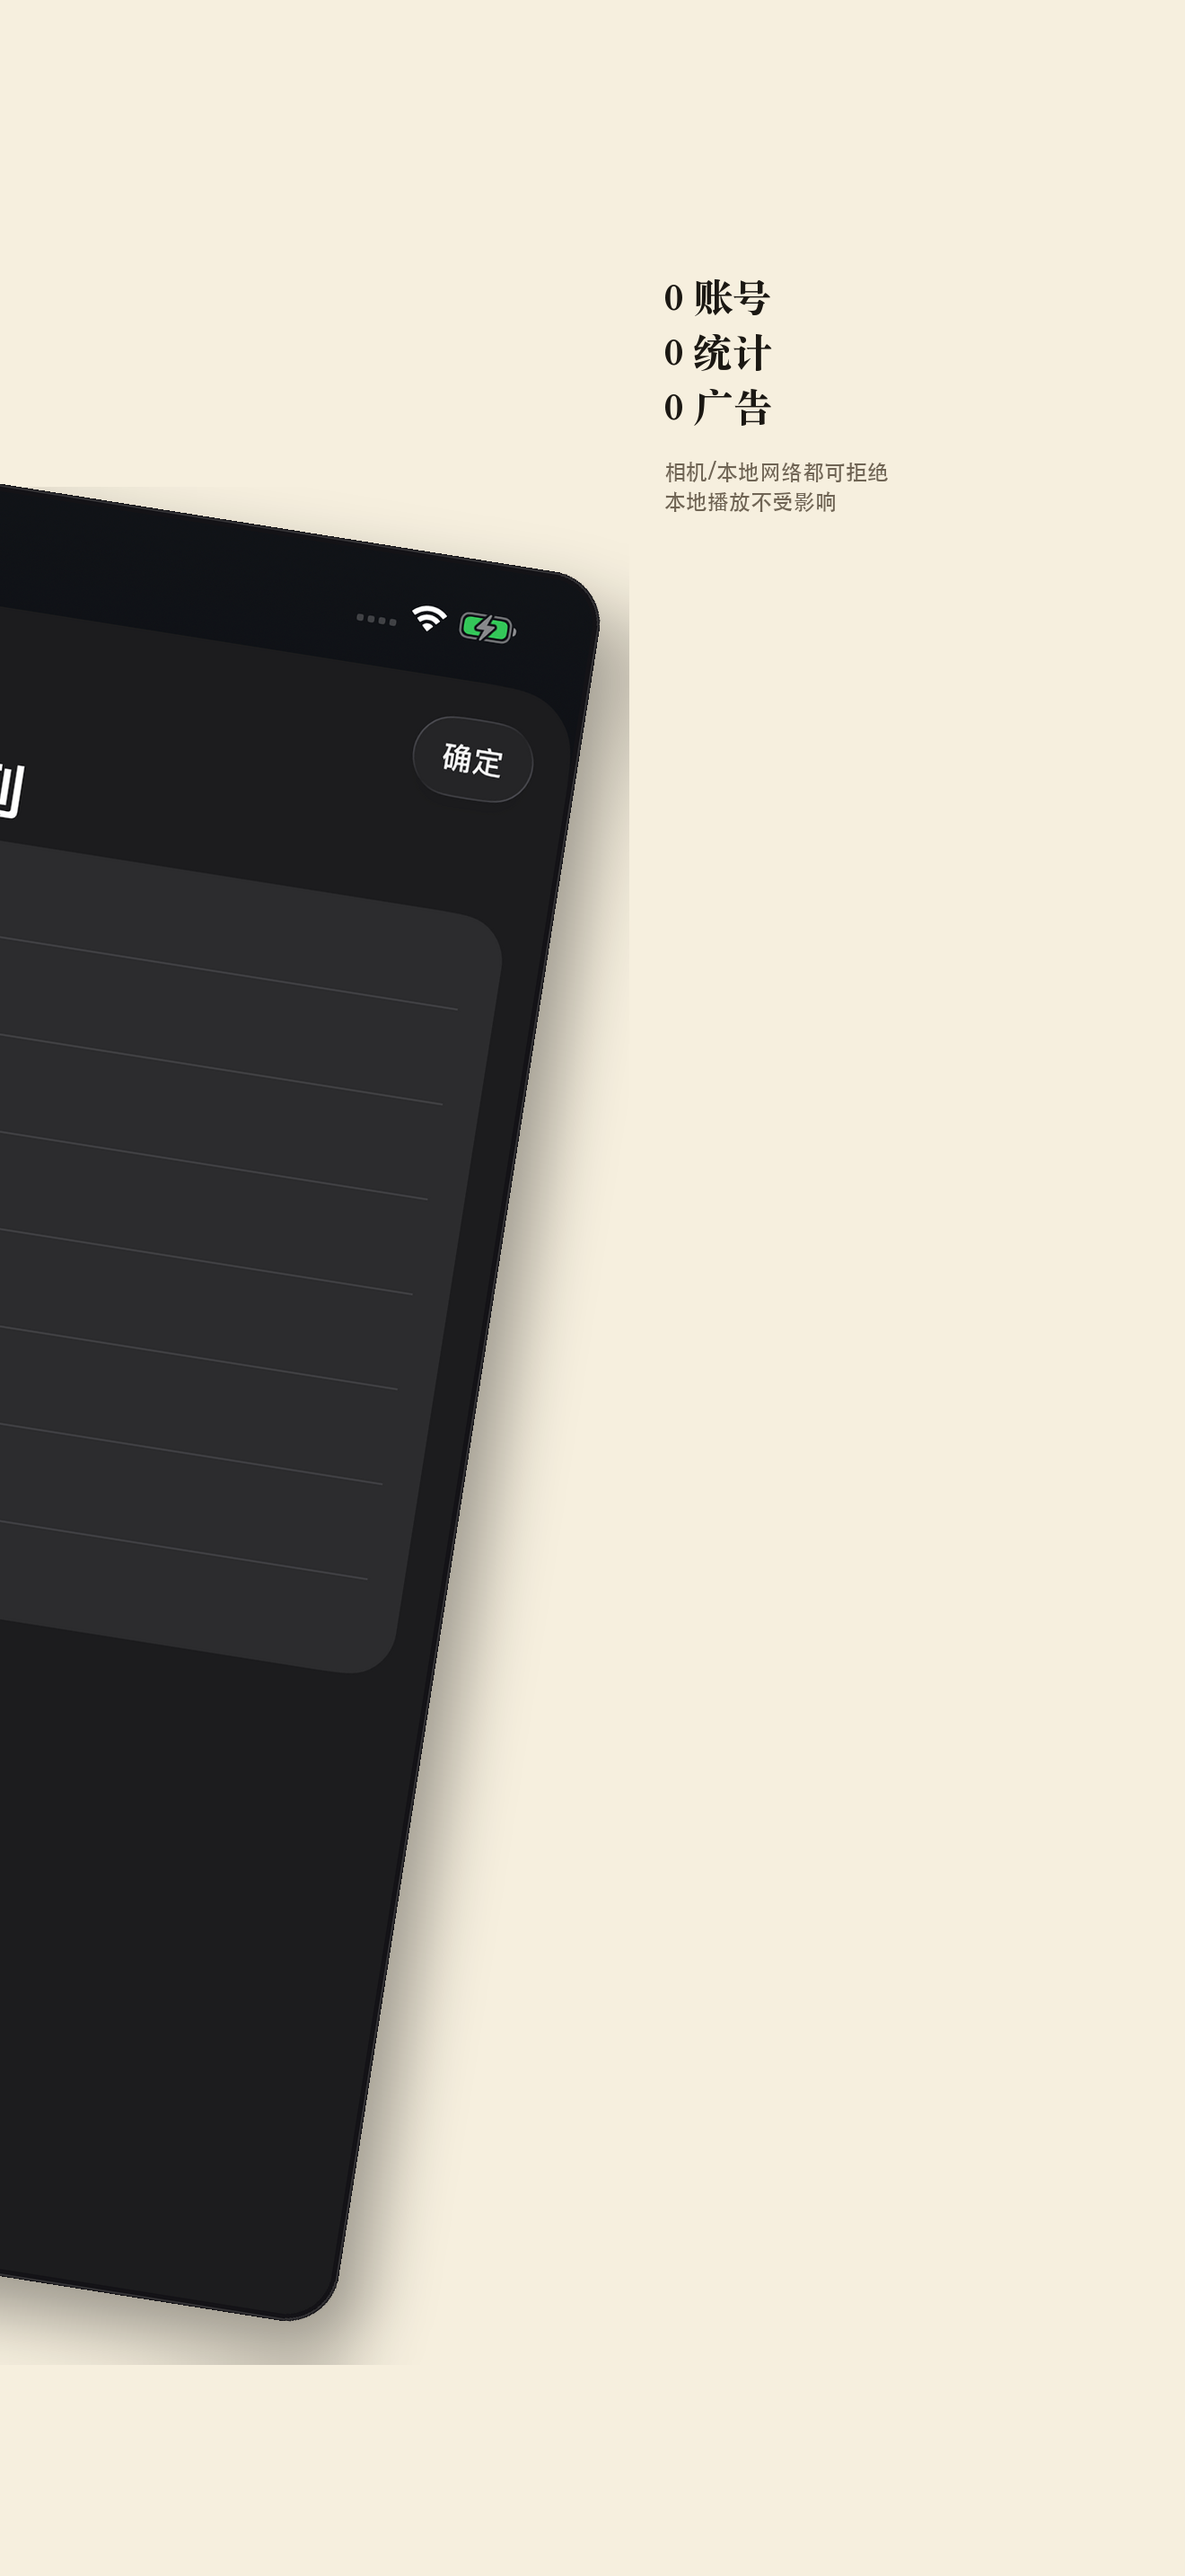
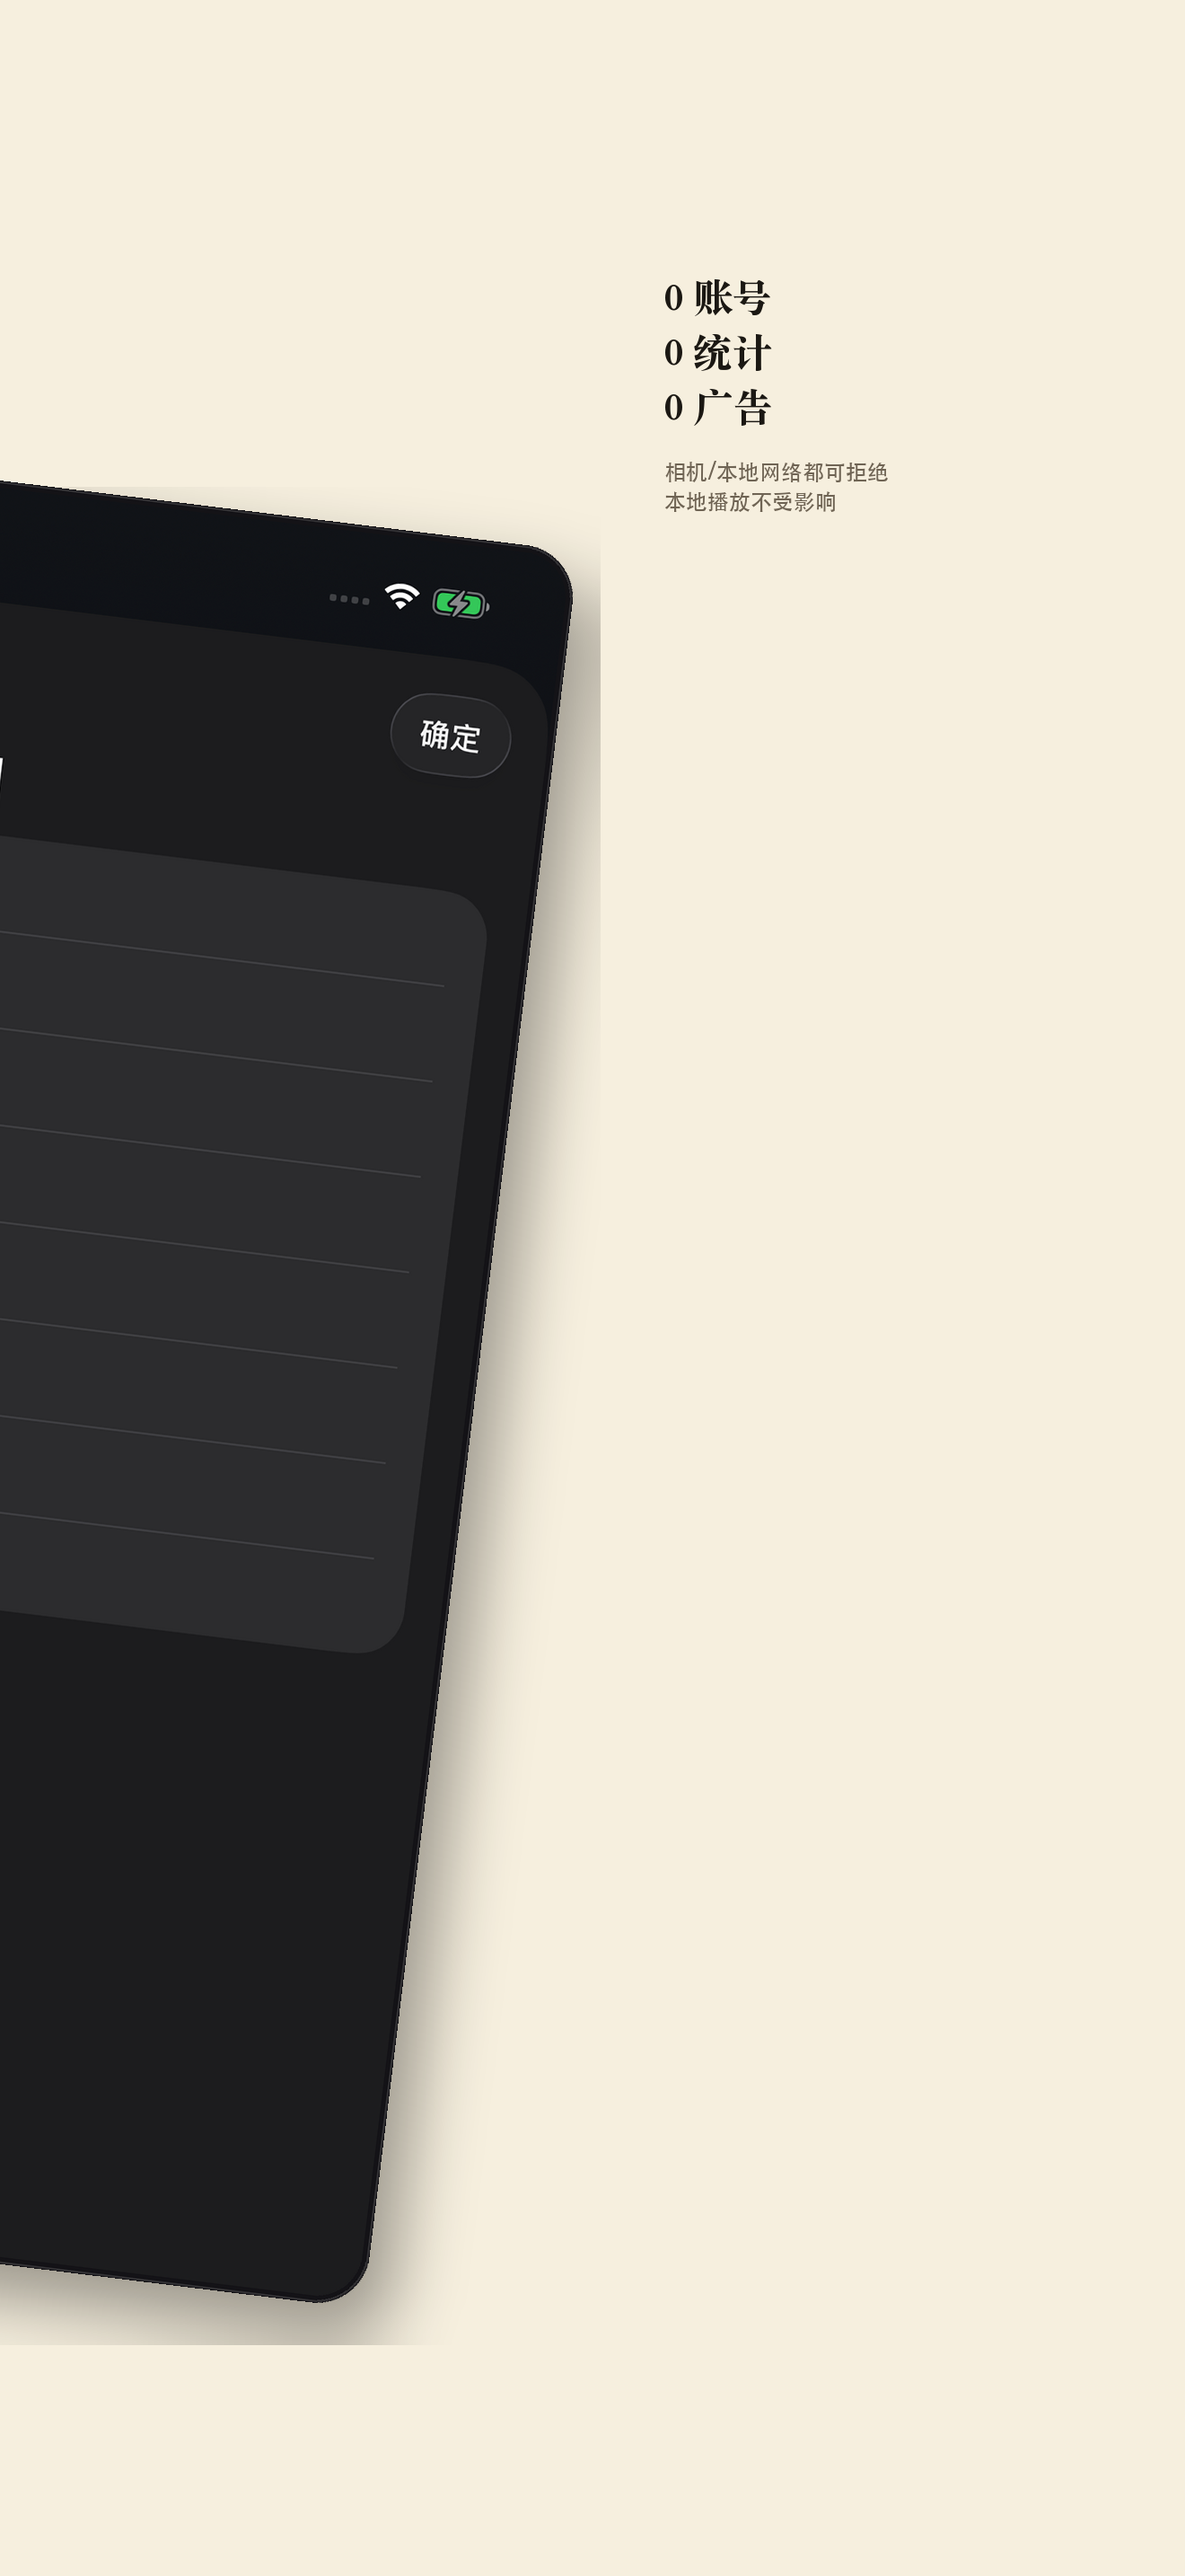
muyunmusic：三个屏统一向右倾，连续全景重出

diff --git a/muyunmusic/SUBMISSION_CHECKLIST.md b/muyunmusic/SUBMISSION_CHECKLIST.md
@@ -10,8 +10,8 @@
 |---|---|---|
 | 商店文案（推广/描述/副标题/关键词） | `APP_STORE_LISTING.md` §1–§4 | ✅ 可直接复制 |
 | 审核备注（英文/中文） | `APP_STORE_LISTING.md` §9、`review-notes.txt` | ✅ |
-| 4 张 6.9" iPhone 截图 | `screenshots/iphone/` | ✅ 1320×2868，连续全景切片 |
-| 4 张 13" iPad 截图 | `screenshots/ipad/` | ✅ 2064×2752，连续全景切片 |
+| 4 张 6.9" iPhone 截图 | `screenshots/iphone/` | ✅ 1320×2868，连续全景切片（统一向右倾） |
+| 4 张 13" iPad 截图 | `screenshots/ipad/` | ✅ 2064×2752，连续全景切片（统一向右倾） |
 | 原创演示曲目/歌词 | `screenshots/showcase/` | ✅ 8 首假歌、3 份 LRC、8 张封面 |
 | 隐私政策 | `privacy.html` / `PRIVACY.md` | ✅ 已含相机/本地网络/自填服务器 |
 | 技术支持 | `support.html` | ✅ 已更新 |
